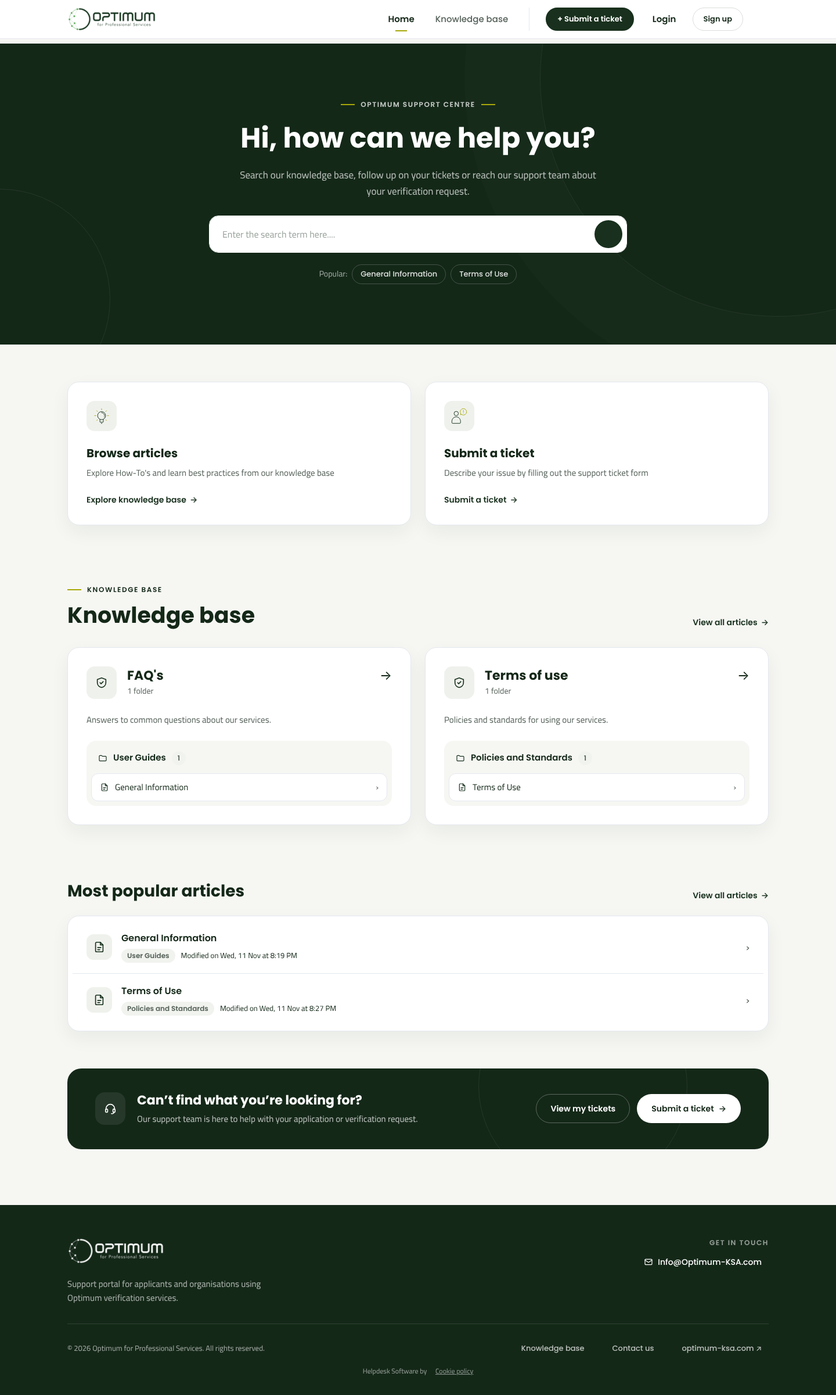
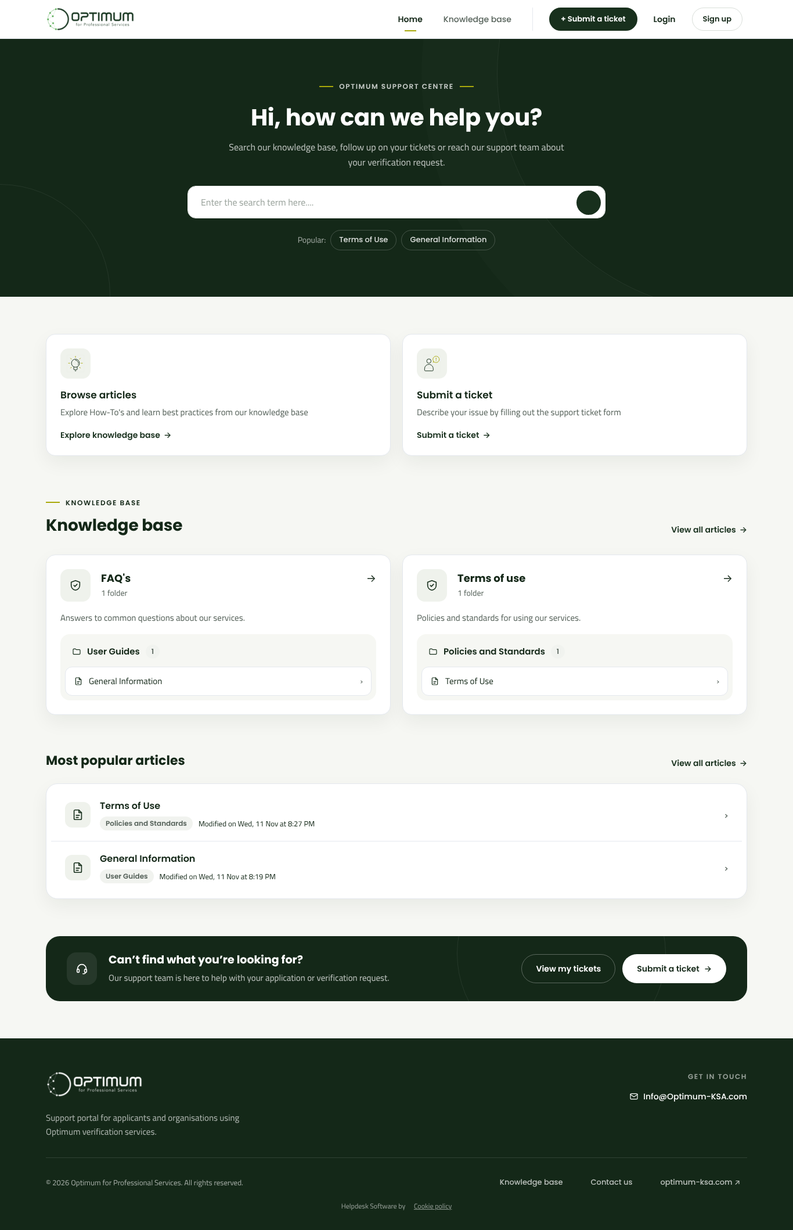
Tighten type scale and align all pages to one content edge
Smaller headings and spacing for laptop screens, header and footer
edges aligned with page content, px-0 page containers given the same
gutter, tidier folder/search rows, filter pills and form notice.

Claude-Session: https://claude.ai/code/session_011C48dMbLdgcnQsEKBQpEK9

diff --git a/optimum-support/optimum-portal-theme/Layout/header.html b/optimum-support/optimum-portal-theme/Layout/header.html
@@ -22,7 +22,7 @@ body.portal--light {
 }
 
 /* ---------- Base ---------- */
-body { background: var(--opt-bg); color: var(--opt-ink); font-family: var(--opt-body); font-size: 15px; }
+body { background: var(--opt-bg); color: var(--opt-ink); font-family: var(--opt-body); font-size: 15px; line-height: 1.6; -webkit-font-smoothing: antialiased; }
 h1, h2, h3, h4, h5, h6, .btn, .nav-link, label, .breadcrumb, .fw-page-title { font-family: var(--opt-head); color: var(--opt-ink); }
 a { color: var(--opt-green); }
 a:hover { color: var(--opt-ink); }
@@ -30,6 +30,8 @@ a:hover { color: var(--opt-ink); }
 .bg-grey { background: var(--opt-bg) !important; }
 .fw-main-wrapper .container, .fw-nav-wrapper .container, .opt-footer .container { max-width: 1232px; }
 @media (max-width: 575px) { .fw-main-wrapper .container, .fw-nav-wrapper .container, .opt-footer .container { padding-left: 16px; padding-right: 16px; } }
+.fw-main-wrapper .container.px-0 { padding-left: 12px !important; padding-right: 12px !important; }
+@media (max-width: 575px) { .fw-main-wrapper .container.px-0 { padding-left: 16px !important; padding-right: 16px !important; } }
 :focus-visible { outline: 2px solid var(--opt-accent); outline-offset: 2px; }
 
 /* ---------- Buttons ---------- */
@@ -56,7 +58,7 @@ label, .form-label, .control-label { font-size: 13px; font-weight: 500; margin-b
 .fw-nav-wrapper .navbar { padding-top: 12px !important; padding-bottom: 12px !important; }
 .fw-nav-wrapper .navbar-brand img, .fw-nav-wrapper .fw-logo img { max-height: 42px; width: auto; }
 .fw-nav-wrapper .navbar-nav { align-items: center; gap: 4px 28px; }
-.fw-nav-wrapper .nav-item .nav-link { font-size: 15px; font-weight: 500; color: var(--opt-muted) !important; padding: 8px 0 !important; position: relative; }
+.fw-nav-wrapper .nav-item .nav-link { font-size: 14px; font-weight: 500; color: var(--opt-muted) !important; padding: 8px 0 !important; position: relative; }
 .fw-nav-wrapper .nav-item.active .nav-link, .fw-nav-wrapper .nav-item .nav-link:hover { color: var(--opt-ink) !important; font-weight: 600; }
 .fw-nav-wrapper .nav-item.active .nav-link::after { content: ""; position: absolute; left: 50%; bottom: -2px; width: 20px; height: 2px; margin-left: -10px; background: var(--opt-accent); }
 .fw-nav-wrapper .nav-item.no-hover .nav-link::after { display: none; }
@@ -75,8 +77,10 @@ label, .form-label, .control-label { font-size: 13px; font-weight: 500; margin-b
 .fw-nav-wrapper .navbar .navbar-collapse .navbar-nav > .nav-item { height: auto; min-height: 0; display: flex; align-items: center; }
 .fw-nav-wrapper .navbar .navbar-collapse .navbar-nav .nav-link { height: auto; min-height: 0; line-height: 22px; }
 .fw-nav-wrapper .nav-item.no-hover .btn, .fw-nav-wrapper .nav-item.no-hover a.btn { padding: 10px 18px; font-size: 13px; }
-.fw-nav-dropdown-wrapper { gap: 16px; margin-left: 16px; }
-.fw-nav-dropdown-wrapper .nav-link, .fw-nav-dropdown-wrapper a { font-family: var(--opt-head); font-weight: 600; font-size: 15px; color: var(--opt-ink); }
+.fw-nav-dropdown-wrapper { gap: 16px; margin-left: 20px; padding-left: 0 !important; }
+.fw-nav-dropdown-wrapper > .nav-item.dropdown:not(:has(a, button, select)) { display: none !important; }
+.fw-nav-wrapper .fw-nav-dropdown-wrapper .nav-item, .fw-nav-wrapper .navbar .navbar-collapse .nav-item.fw-signup .nav-link { margin-right: 0 !important; }
+.fw-nav-dropdown-wrapper .nav-link, .fw-nav-dropdown-wrapper a { font-family: var(--opt-head); font-weight: 600; font-size: 14px; color: var(--opt-ink); }
 .fw-nav-dropdown-wrapper .avatar, .fw-nav-dropdown-wrapper .fw-avatar, .fw-nav-dropdown-wrapper [class*="avatar"] { background: var(--opt-soft) !important; color: var(--opt-ink) !important; border-radius: 50%; }
 .fw-nav-dropdown-wrapper .dropdown-menu, .fw-nav-wrapper .dropdown-menu { border: 1px solid var(--opt-line); border-radius: 14px; box-shadow: var(--opt-shadow); padding: 8px; }
 .fw-nav-wrapper .dropdown-item { border-radius: 10px; padding: 8px 12px; }
@@ -94,8 +98,8 @@ label, .form-label, .control-label { font-size: 13px; font-weight: 500; margin-b
 .fw-searchbar-wrapper { background: #fff; position: static !important; box-shadow: none !important; border: 0; }
 .fw-searchbar-wrapper .row { padding-top: 24px !important; padding-bottom: 0 !important; }
 .fw-page-title-wrapper { background: #fff !important; border-bottom: 1px solid var(--opt-line); }
-.fw-page-title-wrapper .fw-search-meta-info { display: flex; align-items: center; gap: 16px; padding: 12px 0 48px !important; }
-.fw-page-title, .fw-page-title-wrapper h1 { font-size: 38px; line-height: 46px; font-weight: 700; margin: 0; }
+.fw-page-title-wrapper .fw-search-meta-info { display: flex; align-items: center; gap: 16px; padding: 8px 0 36px !important; }
+.fw-page-title, .fw-page-title-wrapper h1 { font-size: 32px; line-height: 40px; letter-spacing: -.2px; font-weight: 700; margin: 0; }
 .fw-page-title-wrapper p { color: var(--opt-muted); opacity: 1; font-size: 16px; margin: 10px 0 0; }
 .fw-page-title-wrapper .fw-icon-holder, .fw-page-title-wrapper .fw-fig { width: 56px; height: 56px; flex: 0 0 56px; border-radius: 14px; background: var(--opt-soft); display: flex; align-items: center; justify-content: center; padding: 0 !important; }
 .fw-page-title-wrapper .fw-fig img { max-width: 30px; }
@@ -111,13 +115,13 @@ label, .form-label, .control-label { font-size: 13px; font-weight: 500; margin-b
 .fw-searchbar-wrapper .btn-search [class*="icon-"] { color: #fff; }
 .fw-autocomplete-wrapper { border-radius: 16px !important; border: 1px solid var(--opt-line); box-shadow: var(--opt-shadow) !important; }
 .fw-search-tab.fw-active-search-tab { color: var(--opt-ink); border-color: var(--opt-accent) !important; }
-@media (max-width: 767px) { .fw-page-title, .fw-page-title-wrapper h1 { font-size: 28px; line-height: 36px; } .fw-searchbar-wrapper .col-md-4 { margin-top: 12px; } }
+@media (max-width: 767px) { .fw-page-title, .fw-page-title-wrapper h1 { font-size: 26px; line-height: 34px; } .fw-searchbar-wrapper .col-md-4 { margin-top: 12px; } }
 
 /* ---------- Cards & white panels ---------- */
 .card, .fw-category-wrapper, .fw-wrapper-shadow, .box-shadow { background: #fff; border: 1px solid var(--opt-line) !important; border-radius: 20px !important; box-shadow: var(--opt-shadow) !important; overflow: hidden; }
 .fw-category-wrapper + .fw-category-wrapper, .fw-category-wrapper ~ .fw-category-wrapper { margin-top: 24px !important; }
 .fw-section-heading { padding: 28px 32px 20px; display: flex; gap: 16px; border-bottom: 1px solid var(--opt-line); }
-.fw-section-heading h2, .fw-section-heading h2 a { font-size: 22px; font-weight: 700; color: var(--opt-ink); text-decoration: none; margin: 0; }
+.fw-section-heading h2, .fw-section-heading h2 a { font-size: 19px; font-weight: 700; color: var(--opt-ink); text-decoration: none; margin: 0; }
 .fw-section-heading p { color: var(--opt-muted); margin: 4px 0 0; font-size: 14px; }
 .fw-icon-holder, .fw-folder-icon { color: var(--opt-green); }
 .fw-category-wrapper .fw-section-heading .fw-icon-holder, .fw-category-wrapper .fw-fig { width: 56px; height: 56px; flex: 0 0 56px; background: var(--opt-soft); border-radius: 14px; display: flex; align-items: center; justify-content: center; padding: 0 !important; }
@@ -127,14 +131,23 @@ label, .form-label, .control-label { font-size: 13px; font-weight: 500; margin-b
 .fw-folder .fw-no-bullet li a, .fw-articles li > a { display: flex; align-items: center; gap: 10px; padding: 12px 14px; margin: 0 0 6px; border: 1px solid var(--opt-line); border-radius: 12px; color: var(--opt-ink); text-decoration: none; background: #fff; transition: border-color .15s, background .15s; }
 .fw-folder .fw-no-bullet li a:hover, .fw-articles li > a:hover { border-color: var(--opt-green); background: var(--opt-bg); }
 .fw-category-wrapper .fw-articles { padding: 16px; margin: 0; }
-.fw-articles li > a.row { display: flex; }
+.fw-articles li > a.row { display: flex; flex-wrap: wrap; align-items: center; justify-content: space-between; gap: 4px 16px; }
+.fw-articles li > a.row > [class*="col-"] { flex: 0 1 auto; width: auto; max-width: 100%; padding: 0; text-align: left; }
+.fw-articles li > a.row .fw-modified { font-size: 12px; color: var(--opt-muted); }
+.fw-articles p { margin: 0; }
+.fw-filter-nav ul { gap: 8px; } .fw-filter-nav a { display: inline-block; padding: 7px 16px; border: 1px solid var(--opt-field); border-radius: 100px; font-family: var(--opt-head); font-size: 13px; font-weight: 500; color: var(--opt-ink); text-decoration: none; }
+.fw-filter-nav a.active { background: var(--opt-green); border-color: var(--opt-green); color: #fff; }
+.fw-filter-nav { border: 0; padding: 0; } .fw-filter-nav a { border-radius: 100px !important; }
+.fw-filter-nav a:not(.active):hover { background: var(--opt-soft); color: var(--opt-ink); }
+.mandatory-fields-notice p { color: var(--opt-muted); font-size: 13px; margin: 0 0 16px; }
+.required-field-asterisk { color: var(--opt-accent) !important; }
 .fw-modified, .fw-meta-info, .small.fw-meta-info { color: var(--opt-muted); font-size: 13px; }
 [class^="icon-"], [class*=" icon-"] { color: var(--opt-green); }
 .fw-no-bullet { list-style: none; padding: 0; margin: 0; }
 .fw-status-badge { border-radius: 20px; background: var(--opt-chip); color: var(--opt-muted); font-family: var(--opt-head); font-size: 12px; font-weight: 600; padding: 4px 10px; }
 
 /* ---------- Two-column pages (content + sidebar) ---------- */
-.fw-content-wrapper { padding: 32px; }
+.fw-content-wrapper { padding: 28px; }
 .fw-sidebar-wrapper { padding: 24px; border-left: 1px solid var(--opt-line); }
 .fw-sidebar { background: var(--opt-bg) !important; border-radius: 16px; padding: 20px; }
 .fw-sidebar h2, .fw-sidebar h3 { font-size: 16px !important; font-weight: 600; }
@@ -197,11 +210,11 @@ main.fw-main-wrapper > section > .alert .btn-close { position: absolute; top: 50
 .opt-btn--sm { padding: 10px 18px; font-size: 13px; }
 
 /* "Can't find what you're looking for?" band */
-.opt-cta { position: relative; overflow: hidden; background: var(--opt-ink); border-radius: 24px; padding: 40px 48px; margin: 48px 0 96px; display: flex; align-items: center; justify-content: space-between; gap: 24px; flex-wrap: wrap; }
+.opt-cta { position: relative; overflow: hidden; background: var(--opt-ink); border-radius: 24px; padding: 28px 36px; margin: 40px 0 64px; display: flex; align-items: center; justify-content: space-between; gap: 24px; flex-wrap: wrap; }
 .opt-cta::after { content: ""; position: absolute; width: 360px; height: 360px; border: 1px solid rgba(255, 255, 255, .08); border-radius: 50%; right: 140px; top: -150px; pointer-events: none; }
 .opt-cta__main { display: flex; align-items: center; gap: 20px; }
 .opt-cta .opt-ico { width: 56px; height: 56px; border-radius: 16px; background: rgba(255, 255, 255, .08); color: #fff; }
-.opt-cta h2 { color: #fff; font-size: 22px; line-height: 30px; font-weight: 700; margin: 0 0 6px; }
+.opt-cta h2 { color: #fff; font-size: 19px; line-height: 26px; font-weight: 700; margin: 0 0 6px; }
 .opt-cta p { color: rgba(255, 255, 255, .72); margin: 0; }
 .opt-cta__actions { display: flex; gap: 12px; flex-wrap: wrap; position: relative; z-index: 1; }
 @media (max-width: 767px) { .opt-cta { padding: 28px 24px; margin-bottom: 64px; } .opt-cta__main { align-items: flex-start; } }
@@ -216,7 +229,7 @@ main.fw-main-wrapper > section > .alert .btn-close { position: absolute; top: 50
 .opt-ft-tag { color: rgba(255, 255, 255, .65); max-width: 380px; margin: 16px 0 0; line-height: 24px; }
 .opt-ft-contact { display: flex; flex-direction: column; align-items: flex-end; gap: 14px; }
 .opt-ft-eyebrow { font-family: var(--opt-head); font-size: 12px; font-weight: 600; letter-spacing: 1.6px; color: rgba(255, 255, 255, .55); margin: 0; }
-.opt-ft-mail { display: inline-flex; align-items: center; gap: 8px; font-family: var(--opt-head); font-weight: 500; font-size: 14px; }
+.opt-ft-mail { padding: 0 !important; margin: 0 !important; display: inline-flex; align-items: center; gap: 8px; font-family: var(--opt-head); font-weight: 500; font-size: 14px; }
 .opt-ft-mail .opt-svg { width: 16px; height: 16px; }
 .opt-ft-social { display: flex; gap: 10px; list-style: none; margin: 0; padding: 0; }
 .opt-ft-social a { width: 40px; height: 40px; border: 1px solid rgba(255, 255, 255, .2); border-radius: 50%; display: flex; align-items: center; justify-content: center; }
@@ -225,7 +238,7 @@ main.fw-main-wrapper > section > .alert .btn-close { position: absolute; top: 50
 .opt-ft-bottom { margin-top: 32px; padding-top: 32px; border-top: 1px solid rgba(255, 255, 255, .12); display: flex; justify-content: space-between; align-items: center; gap: 16px; flex-wrap: wrap; font-size: 13px; }
 .opt-ft-bottom p { margin: 0; color: rgba(255, 255, 255, .6); }
 .opt-ft-links { list-style: none; margin: 0; padding: 0; display: flex; gap: 24px; flex-wrap: wrap; font-family: var(--opt-head); font-weight: 500; }
-.opt-ft-links a { color: rgba(255, 255, 255, .7); }
+.opt-ft-links a { color: rgba(255, 255, 255, .7); padding: 0 !important; margin: 0 !important; }
 .opt-ft-legal { margin-top: 20px; font-size: 12px; color: rgba(255, 255, 255, .55); text-align: center; }
 .opt-ft-legal a { color: rgba(255, 255, 255, .75); }
 .opt-ft-legal ul { list-style: none; margin: 0; padding: 0; display: inline; }
@@ -252,7 +265,7 @@ main.fw-main-wrapper > section > .alert .btn-close { position: absolute; top: 50
 .opt-auth__intro { background: var(--opt-ink); color: #fff; padding: 40px 32px; display: flex; flex-direction: column; justify-content: space-between; gap: 32px; position: relative; overflow: hidden; }
 .opt-auth__intro::after { content: ""; position: absolute; width: 420px; height: 420px; border: 1px solid rgba(255, 255, 255, .07); border-radius: 50%; left: 40px; top: -60px; pointer-events: none; }
 .opt-auth__logo { height: 40px; width: auto; align-self: flex-start; filter: brightness(0) invert(1); }
-.opt-auth__intro h2 { color: #fff; font-size: 28px; line-height: 36px; font-weight: 700; margin: 0 0 12px; }
+.opt-auth__intro h2 { color: #fff; font-size: 24px; line-height: 32px; font-weight: 700; margin: 0 0 12px; }
 .opt-auth__intro p { color: rgba(255, 255, 255, .75); margin: 0 0 20px; }
 .opt-auth__list { list-style: none; margin: 0; padding: 0; display: grid; gap: 12px; }
 .opt-auth__list li { display: flex; gap: 10px; align-items: flex-start; font-family: var(--opt-head); font-size: 14px; font-weight: 500; }

diff --git a/optimum-support/optimum-portal-theme/Pages/General pages/portal-home.html b/optimum-support/optimum-portal-theme/Pages/General pages/portal-home.html
@@ -1,6 +1,6 @@
 <style>
   /* Optimum home – Figma styling */
-  .opt-hero { position: relative; overflow: hidden; background: var(--opt-ink); padding: 96px 0 104px; text-align: center; }
+  .opt-hero { position: relative; overflow: hidden; background: var(--opt-ink); padding: 72px 0 80px; text-align: center; }
   .opt-hero::before, .opt-hero::after { content: ""; position: absolute; border: 1px solid rgba(255,255,255,.07); border-radius: 50%; pointer-events: none; }
   .opt-hero::before { width: 820px; height: 820px; right: -310px; top: -350px; box-shadow: 0 0 0 130px rgba(255,255,255,.015); }
   .opt-hero::after { width: 380px; height: 380px; left: -190px; top: 250px; }
@@ -11,13 +11,13 @@
   .opt-hero > .container { display: flex; flex-direction: column; align-items: center; }
   .opt-hero__search { display: contents; }
   .opt-hero .opt-eyebrow { order: 1; } .opt-hero h1 { order: 2; } .opt-hero__lead { order: 3; } .opt-hero form { order: 4; width: 100%; max-width: 720px; } .opt-popular { order: 5; }
-  .opt-hero h1 { color: #fff; font-size: 48px; line-height: 58px; font-weight: 700; margin: 0 0 20px; }
+  .opt-hero h1 { color: #fff; font-size: 40px; line-height: 48px; font-weight: 700; letter-spacing: -.3px; margin: 0 0 14px; }
   .opt-hero .fw-autocomplete-wrapper { text-align: left; position: absolute; left: 0; right: 0; top: 72px; z-index: 20; }
-  .opt-hero__lead { color: rgba(255,255,255,.72); font-size: 17px; line-height: 28px; max-width: 640px; margin: 0 auto 28px; }
+  .opt-hero__lead { color: rgba(255,255,255,.72); font-size: 16px; line-height: 26px; max-width: 600px; margin: 0 auto 28px; }
   .opt-hero form { position: relative; z-index: 2; }
   .opt-hero .input-group { position: relative; }
-  .opt-hero #searchInput, .opt-hero .input-group .form-control { height: 64px; border-radius: 16px !important; border: 1px solid #fff; padding: 0 76px 0 22px; font-size: 16px; width: 100%; }
-  .opt-hero .btn-search, .opt-hero .input-group .btn { position: absolute; right: 8px; top: 8px; z-index: 5; width: 48px; height: 48px; padding: 0 !important; border-radius: 50% !important; background: var(--opt-green) !important; color: #fff !important; border: 0 !important; display: flex; align-items: center; justify-content: center; }
+  .opt-hero #searchInput, .opt-hero .input-group .form-control { height: 56px; border-radius: 14px !important; border: 1px solid #fff; padding: 0 76px 0 22px; font-size: 16px; width: 100%; }
+  .opt-hero .btn-search, .opt-hero .input-group .btn { position: absolute; right: 8px; top: 8px; z-index: 5; width: 42px; height: 42px; padding: 0 !important; border-radius: 50% !important; background: var(--opt-green) !important; color: #fff !important; border: 0 !important; display: flex; align-items: center; justify-content: center; }
   .opt-hero .btn-search [class*="icon-"] { color: #fff; }
   .opt-popular { display: flex; justify-content: center; align-items: center; flex-wrap: wrap; gap: 8px; margin-top: 20px; position: relative; z-index: 1; }
   .opt-popular span { color: rgba(255,255,255,.6); font-size: 14px; }
@@ -25,25 +25,25 @@
   .opt-popular a:hover { border-color: #fff; color: #fff; }
   @media (max-width: 767px) { .opt-hero { padding: 56px 0 64px; } .opt-hero h1 { font-size: 32px; line-height: 40px; } .opt-hero #searchInput { height: 56px; } .opt-hero .btn-search { width: 40px; height: 40px; } }
   .opt-home { padding-top: 64px; }
-  .opt-actions { display: grid; grid-template-columns: repeat(auto-fit, minmax(260px, 1fr)); gap: 24px; list-style: none; padding: 0; margin: 0 0 96px; }
-  .opt-action, .opt-cat, .opt-forum { display: flex; flex-direction: column; gap: 24px; height: 100%; background: #fff; border: 1px solid var(--opt-line); border-radius: 20px; padding: 32px; box-shadow: var(--opt-shadow); color: var(--opt-ink); text-decoration: none;
+  .opt-actions { display: grid; grid-template-columns: repeat(auto-fit, minmax(260px, 1fr)); gap: 20px; list-style: none; padding: 0; margin: 0 0 64px; }
+  .opt-action, .opt-cat, .opt-forum { display: flex; flex-direction: column; gap: 16px; height: 100%; background: #fff; border: 1px solid var(--opt-line); border-radius: 16px; padding: 24px; box-shadow: var(--opt-shadow); color: var(--opt-ink); text-decoration: none;
     transition: transform .2s ease, box-shadow .2s ease, border-color .2s ease; }
   a.opt-action:hover, a.opt-action:focus-visible, .opt-cat:hover, a.opt-forum:hover { transform: translateY(-4px); box-shadow: 0 12px 28px rgba(21,50,30,.14); border-color: var(--opt-green); color: var(--opt-ink); text-decoration: none; }
   .opt-action .opt-ico img, .opt-action .opt-ico svg { width: 30px; height: 30px; }
   /* Recolour Freshdesk's default card icons to the Optimum palette */
   .opt-action .opt-ico [stroke="#475867" i] { stroke: var(--opt-green); }
   .opt-action .opt-ico [stroke="#00a886" i] { stroke: var(--opt-accent); }
-  .opt-action h2, .opt-forum h3 { font-size: 20px; line-height: 28px; font-weight: 700; margin: 0 0 8px; }
+  .opt-action h2, .opt-forum h3 { font-size: 17px; line-height: 24px; font-weight: 600; margin: 0 0 6px; }
   .opt-action p, .opt-cat p, .opt-forum p { color: var(--opt-muted); margin: 0; line-height: 24px; }
   .opt-action .opt-link-arrow { margin-top: auto; }
   .opt-sechead { display: flex; justify-content: space-between; align-items: flex-end; gap: 16px; flex-wrap: wrap; margin-bottom: 32px; }
-  .opt-sechead h2 { font-size: 38px; line-height: 46px; font-weight: 700; margin: 0; }
-  .opt-sechead h3 { font-size: 28px; line-height: 36px; font-weight: 700; margin: 0; }
-  .opt-cats { display: grid; grid-template-columns: repeat(auto-fit, minmax(320px, 1fr)); gap: 24px; margin-bottom: 96px; }
+  .opt-sechead h2 { font-size: 28px; line-height: 36px; letter-spacing: -.2px; font-weight: 700; margin: 0; }
+  .opt-sechead h3 { font-size: 22px; line-height: 30px; font-weight: 700; margin: 0; }
+  .opt-cats { display: grid; grid-template-columns: repeat(auto-fit, minmax(320px, 1fr)); gap: 20px; margin-bottom: 64px; }
   .opt-cat__head { display: flex; align-items: center; gap: 18px; }
   .opt-cat__head .opt-ico { width: 56px; height: 56px; }
   .opt-cat__head .opt-ico img { max-width: 28px; }
-  .opt-cat__head h3 { font-size: 22px; line-height: 30px; font-weight: 700; margin: 0; }
+  .opt-cat__head h3 { font-size: 18px; line-height: 26px; font-weight: 700; margin: 0; }
   .opt-cat__head h3 a { color: var(--opt-ink); text-decoration: none; }
   .opt-cat__head h3 a::after { content: "→"; float: right; font-weight: 400; }
   .opt-cat__head small { color: var(--opt-muted); font-size: 14px; }
@@ -54,7 +54,7 @@
   .opt-cat__folder li a::after { content: "›"; margin-left: auto; color: var(--opt-muted); }
   .opt-cat__folder li a:hover { border-color: var(--opt-green); }
   .opt-cat__folder .opt-svg { width: 16px; height: 16px; color: var(--opt-green); }
-  .opt-forums { display: grid; grid-template-columns: repeat(auto-fit, minmax(260px, 1fr)); gap: 24px; margin-bottom: 96px; }
+  .opt-forums { display: grid; grid-template-columns: repeat(auto-fit, minmax(260px, 1fr)); gap: 20px; margin-bottom: 64px; }
   .opt-list { list-style: none; margin: 0 0 64px; padding: 8px; background: #fff; border: 1px solid var(--opt-line); border-radius: 20px; box-shadow: var(--opt-shadow); }
   .opt-list li { padding: 0 !important; margin: 0 !important; border: 0; }
   .opt-list li + li { border-top: 1px solid var(--opt-line); }
@@ -64,7 +64,7 @@
   .opt-list .opt-ico { width: 44px; height: 44px; flex-basis: 44px; border-radius: 12px; }
   .opt-list h4 { font-size: 16px; line-height: 24px; font-weight: 600; margin: 0 0 6px; }
   .opt-list .opt-meta { display: flex; align-items: center; gap: 10px; flex-wrap: wrap; color: var(--opt-muted); font-size: 13px; }
-  @media (max-width: 767px) { .opt-sechead h2 { font-size: 28px; line-height: 36px; } .opt-actions, .opt-cats, .opt-forums { margin-bottom: 56px; } .opt-cats { grid-template-columns: 1fr; } }
+  @media (max-width: 767px) { .opt-sechead h2 { font-size: 24px; line-height: 32px; } .opt-actions, .opt-cats, .opt-forums { margin-bottom: 56px; } .opt-cats { grid-template-columns: 1fr; } }
 </style>
 
   {% if portal.current_tab and portal.current_tab == "home" %}

diff --git a/optimum-support/optimum-portal-theme/Pages/Tickets/submit-ticket.html b/optimum-support/optimum-portal-theme/Pages/Tickets/submit-ticket.html
@@ -3,18 +3,19 @@
   .opt-intro { color: var(--opt-muted); font-size: 16px; margin: 10px 0 0; }
   .opt-newticket { display: grid; grid-template-columns: minmax(0, 1fr) 340px; gap: 24px; align-items: start; }
   @media (max-width: 991px) { .opt-newticket { grid-template-columns: 1fr; } }
-  .opt-newticket .fw-new-ticket-wrapper .fw-content-wrapper { padding: 40px; }
+  .opt-newticket .fw-new-ticket-wrapper .fw-content-wrapper { padding: 32px; }
   @media (max-width: 767px) { .opt-newticket .fw-new-ticket-wrapper .fw-content-wrapper { padding: 24px 18px; } }
-  .opt-newticket .fw-new-ticket.fw-content { padding: 0; }
+  .opt-newticket .fw-new-ticket-wrapper .fw-content.fw-new-ticket { padding: 0 !important; margin: 0; }
+  .opt-newticket .fw-new-ticket .required-text, .opt-newticket .fw-new-ticket > p:first-child { color: var(--opt-muted); font-size: 13px; }
   .opt-tf { margin: 0 0 8px; }
   .opt-tf .opt-step { font-family: var(--opt-head); font-size: 12px; font-weight: 600; letter-spacing: 1.2px; text-transform: uppercase; color: var(--opt-muted); margin: 0 0 6px; }
-  .opt-tf h2.opt-q { font-size: 22px; line-height: 30px; font-weight: 700; color: var(--opt-ink); margin: 0; }
+  .opt-tf h2.opt-q { font-size: 20px; line-height: 28px; font-weight: 700; color: var(--opt-ink); margin: 0; }
   .opt-tf .opt-sub { color: var(--opt-muted); margin: 4px 0 18px; font-size: 14px; }
   .opt-tiles { display: grid; grid-template-columns: repeat(3, minmax(0, 1fr)); gap: 16px; }
   @media (max-width: 767px) { .opt-tiles { grid-template-columns: repeat(2, minmax(0, 1fr)); } }
   @media (max-width: 420px) { .opt-tiles { grid-template-columns: 1fr; } }
-  .opt-tile { position: relative; display: flex; flex-direction: column; align-items: flex-start; gap: 14px; text-align: left; padding: 20px; border-radius: 20px;
-              border: 1px solid var(--opt-line); background: #fff; box-shadow: var(--opt-shadow); cursor: pointer; font-family: var(--opt-head); font-size: 15px; font-weight: 600; line-height: 22px; color: var(--opt-ink);
+  .opt-tile { position: relative; display: flex; flex-direction: column; align-items: flex-start; gap: 14px; text-align: left; padding: 16px; border-radius: 16px;
+              border: 1px solid var(--opt-line); background: #fff; box-shadow: var(--opt-shadow); cursor: pointer; font-family: var(--opt-head); font-size: 14px; font-weight: 600; line-height: 20px; color: var(--opt-ink);
               transition: border-color .15s, box-shadow .15s, transform .15s; }
   .opt-tile::after { content: ""; position: absolute; top: 18px; right: 18px; width: 18px; height: 18px; border-radius: 50%; border: 1.5px solid var(--opt-field); background: #fff; }
   .opt-tile:hover, .opt-tile:focus-visible { border-color: var(--opt-green); transform: translateY(-2px); outline: none; }
@@ -29,7 +30,7 @@
   .opt-pill:hover, .opt-pill:focus-visible { border-color: var(--opt-green); outline: none; }
   .opt-pill.is-on { background: var(--opt-green); border-color: var(--opt-green); color: #fff; font-weight: 600; }
   .opt-sec { background: #fff; border-top: 1px solid var(--opt-line); padding: 24px 0 4px; margin: 24px 0 0; }
-  .opt-sec > h3 { font-size: 20px; line-height: 28px; font-weight: 600; color: var(--opt-ink); margin: 0 0 2px; }
+  .opt-sec > h3 { font-size: 17px; line-height: 24px; font-weight: 600; color: var(--opt-ink); margin: 0 0 2px; }
   .opt-sec > p.opt-note { font-size: 13px; color: var(--opt-muted); margin: 0 0 16px; }
   .opt-hint { display: block; font-size: 12px; color: var(--opt-ph); margin-top: 6px; }
   .opt-err { display: block; font-size: 13px; color: var(--opt-red); margin-top: 6px; }
@@ -47,7 +48,7 @@
   .opt-aside__dark { position: relative; overflow: hidden; background: var(--opt-ink); color: #fff; border-radius: 20px; padding: 28px; }
   .opt-aside__dark::after { content: ""; position: absolute; width: 220px; height: 220px; left: 170px; top: -90px; border: 1px solid rgba(255,255,255,.08); border-radius: 50%; }
   .opt-aside__dark .opt-ico { width: 48px; height: 48px; background: rgba(255,255,255,.08); color: #fff; margin-bottom: 16px; }
-  .opt-aside__dark h2 { color: #fff; font-size: 20px; line-height: 28px; font-weight: 700; margin: 0 0 8px; }
+  .opt-aside__dark h2 { color: #fff; font-size: 18px; line-height: 26px; font-weight: 700; margin: 0 0 8px; }
   .opt-aside__dark p { color: rgba(255,255,255,.72); margin: 0 0 16px; }
   .opt-aside__card { background: #fff; border: 1px solid var(--opt-line); border-radius: 20px; padding: 16px 16px 24px; box-shadow: var(--opt-shadow); }
   .opt-aside__art { background: var(--opt-soft); border-radius: 14px; height: 132px; display: flex; align-items: center; justify-content: center; color: var(--opt-green); margin-bottom: 16px; }
